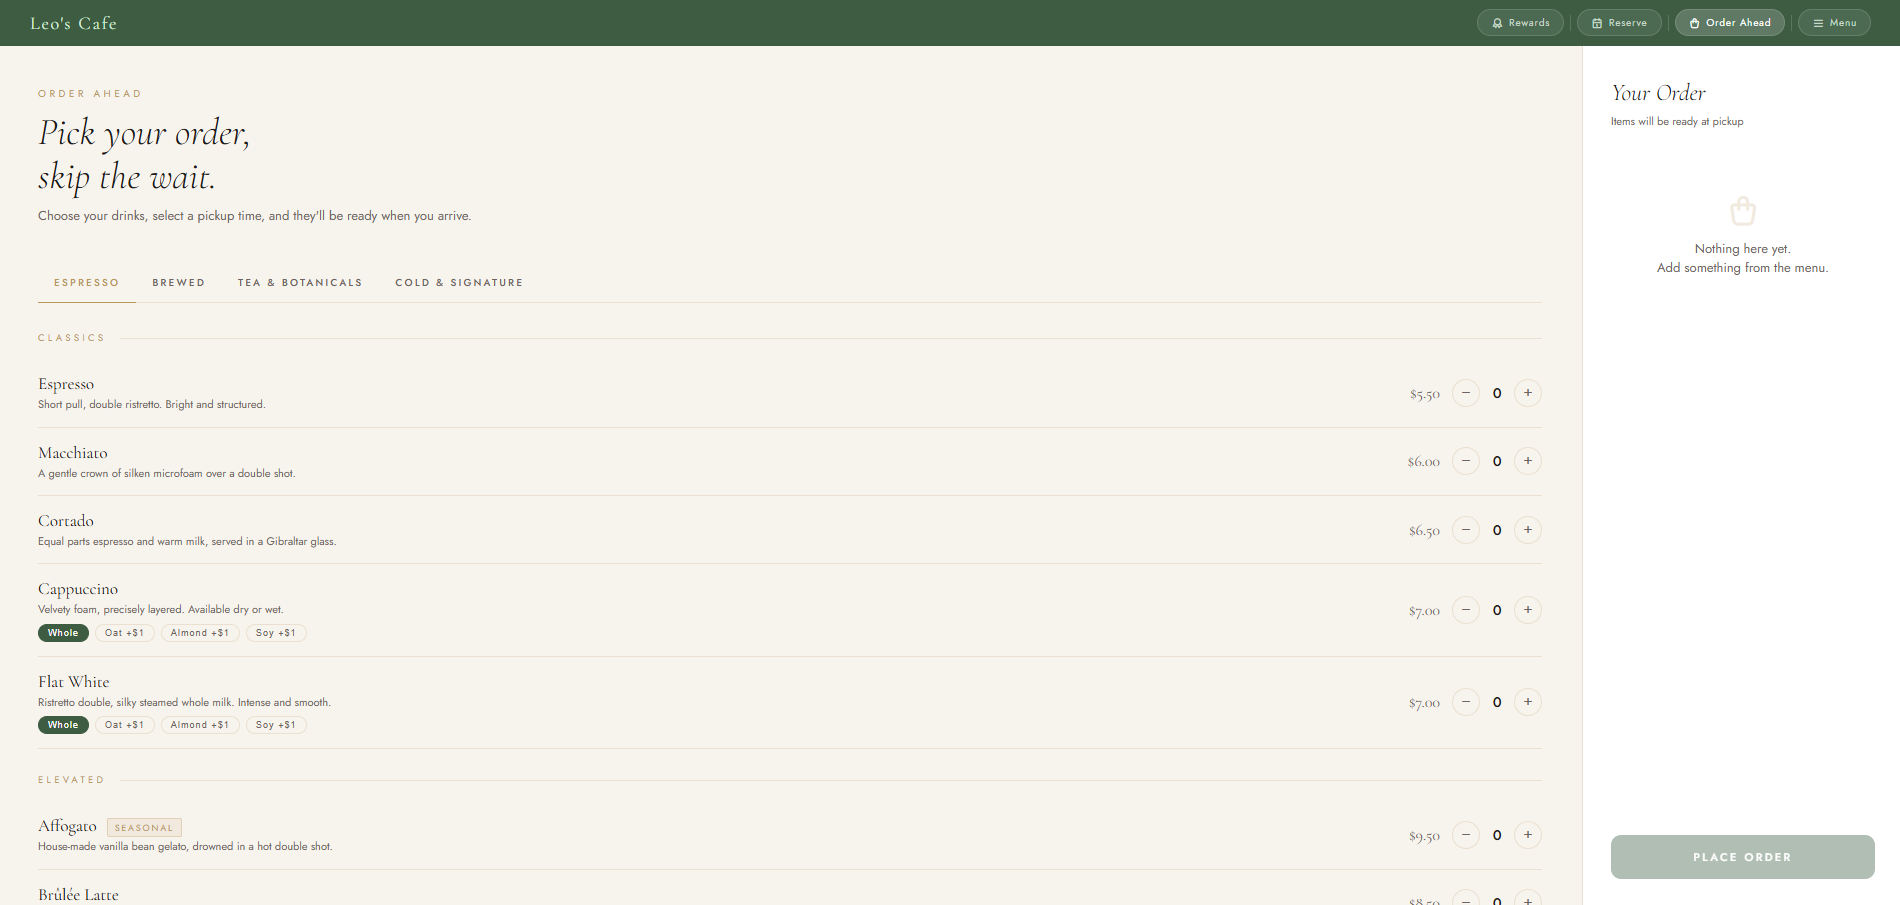
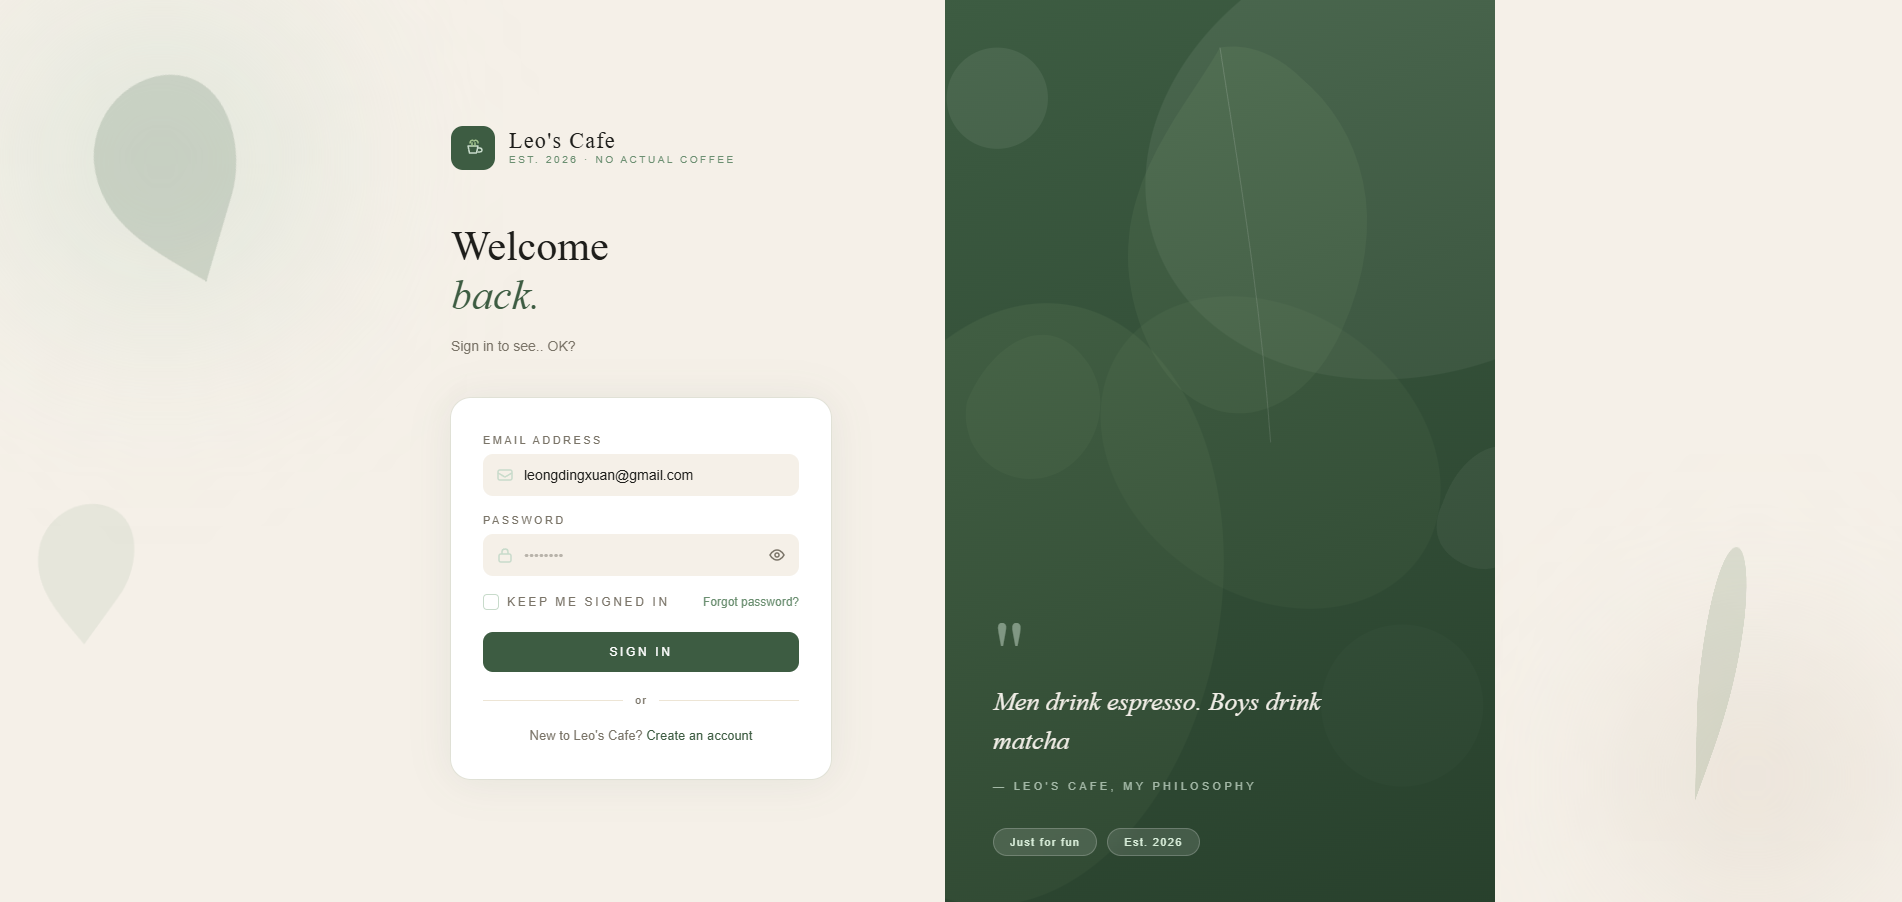
Update

diff --git a/data/index.ts b/data/index.ts
@@ -448,31 +448,31 @@ export const achievements = [
 export const timeline = [
   {
     year: "2025 – Present",
-    title: "National Service · Building in spare time",
-    org: "",
+    title: "Vehicle Commander, Terrex ICV",
+    org: "Singapore Armed Forces",
     description:
-      "Serving NS while developing Leo's Cafe — a full-stack project to stay production-sharp. Available for full-time roles from 2nd August 2026.",
+      "Commanding a Terrex Infantry Carrier Vehicle during full-time National Service. Building production-grade projects in spare time — a full-stack café platform and an ML-powered HDB resale price predictor. Available for full-time roles from August 2026.",
   },
   {
     year: "Apr 2023 – Sep 2023",
     title: "Technical Intern",
     org: "Trend Micro",
     description:
-      "Developed POC security documentation, validated detection & remediation behaviour in VM environments, supported Sales Engineers and Technical Account Managers with client cybersecurity solutions.",
+      "Injected controlled malware and viruses into isolated VM environments to validate product detection and remediation behaviour. Developed POC documentation used by Sales Engineers in enterprise client presentations.",
   },
   {
     year: "Apr 2021 – May 2024",
     title: "Diploma in Cybersecurity & Digital Forensics",
     org: "Temasek Polytechnic",
     description:
-      "Director's List AY2021/22. Distinctions in Network Technology, Coding & Development. Final Year Project: EcoSaver IoT Air Quality Platform on Azure.",
+      "Admitted to the Director's List for AY2021/2022. Final Year Project: EcoSaver — a live IoT air quality monitoring platform deployed on Azure.",
   },
   {
     year: "2019 – 2024",
     title: "Part-Time Roles",
     org: "Retail · Banquet · F&B · Warehouse",
     description:
-      "Developed strong communication and problem-solving skills across diverse customer-facing and operational environments.",
+      "Managed customer escalations in high-volume retail and F&B environments, coordinated banquet setups for large-scale events, and handled time-critical logistics in warehouse operations — building composure and reliability under pressure.",
   },
   {
     year: "2016 – 2020",

diff --git a/app/about/page.tsx b/app/about/page.tsx
@@ -9,11 +9,11 @@ import { PageNav } from "@/components/layout/PageNav";
 const experiences = [
   {
     period: "2025 – Present",
-    role: "Full-time National Service",
+    role: "Vehicle Commander, Terrex ICV",
     company: "Singapore Armed Forces",
     url: null as string | null,
     description:
-      "Serving NS while building production-grade side projects in spare time — a full-stack café platform and an ML-powered HDB resale price predictor.",
+      "Commanding a Terrex Infantry Carrier Vehicle during full-time National Service. Building production-grade projects in spare time — a full-stack café platform and an ML-powered HDB resale price predictor.",
     tech: ["Node.js", "PostgreSQL", "Python", "Machine Learning"],
   },
   {
@@ -22,7 +22,7 @@ const experiences = [
     company: "Trend Micro",
     url: "https://www.trendmicro.com",
     description:
-      "Developed POC security documentation and validated detection & remediation behaviour across VM environments. Supported Sales Engineers and Technical Account Managers with client-facing cybersecurity solutions.",
+      "Injected controlled malware and viruses into isolated VM environments to validate product detection and remediation behaviour. Developed POC documentation used by Sales Engineers in enterprise client presentations.",
     tech: ["Cybersecurity", "VM Environments", "Technical Documentation"],
   },
 ];

diff --git a/app/page.tsx b/app/page.tsx
@@ -44,17 +44,17 @@ const experiences = [
     company: "Trend Micro",
     url: "https://www.trendmicro.com",
     description:
-      "Developed POC security documentation and validated detection & remediation behaviour across VM environments. Supported Sales Engineers and Technical Account Managers with client-facing cybersecurity solutions.",
+      "Injected controlled malware and viruses into isolated VM environments to validate product detection and remediation behaviour. Developed POC documentation used by Sales Engineers in enterprise client presentations.",
     tech: ["Cybersecurity", "VM Environments", "Technical Documentation"],
   },
   {
     id: "ns",
     period: "2025 – Present",
-    role: "Full-time National Service",
+    role: "Vehicle Commander, Terrex ICV",
     company: "Singapore Armed Forces",
     url: null as string | null,
     description:
-      "Serving NS while building production-grade side projects in spare time — a full-stack café platform and an ML-powered HDB resale price predictor.",
+      "Commanding a Terrex Infantry Carrier Vehicle during full-time National Service. Building production-grade projects in spare time — a full-stack café platform and an ML-powered HDB resale price predictor.",
     tech: ["Node.js", "PostgreSQL", "Python", "Machine Learning"],
   },
 ];